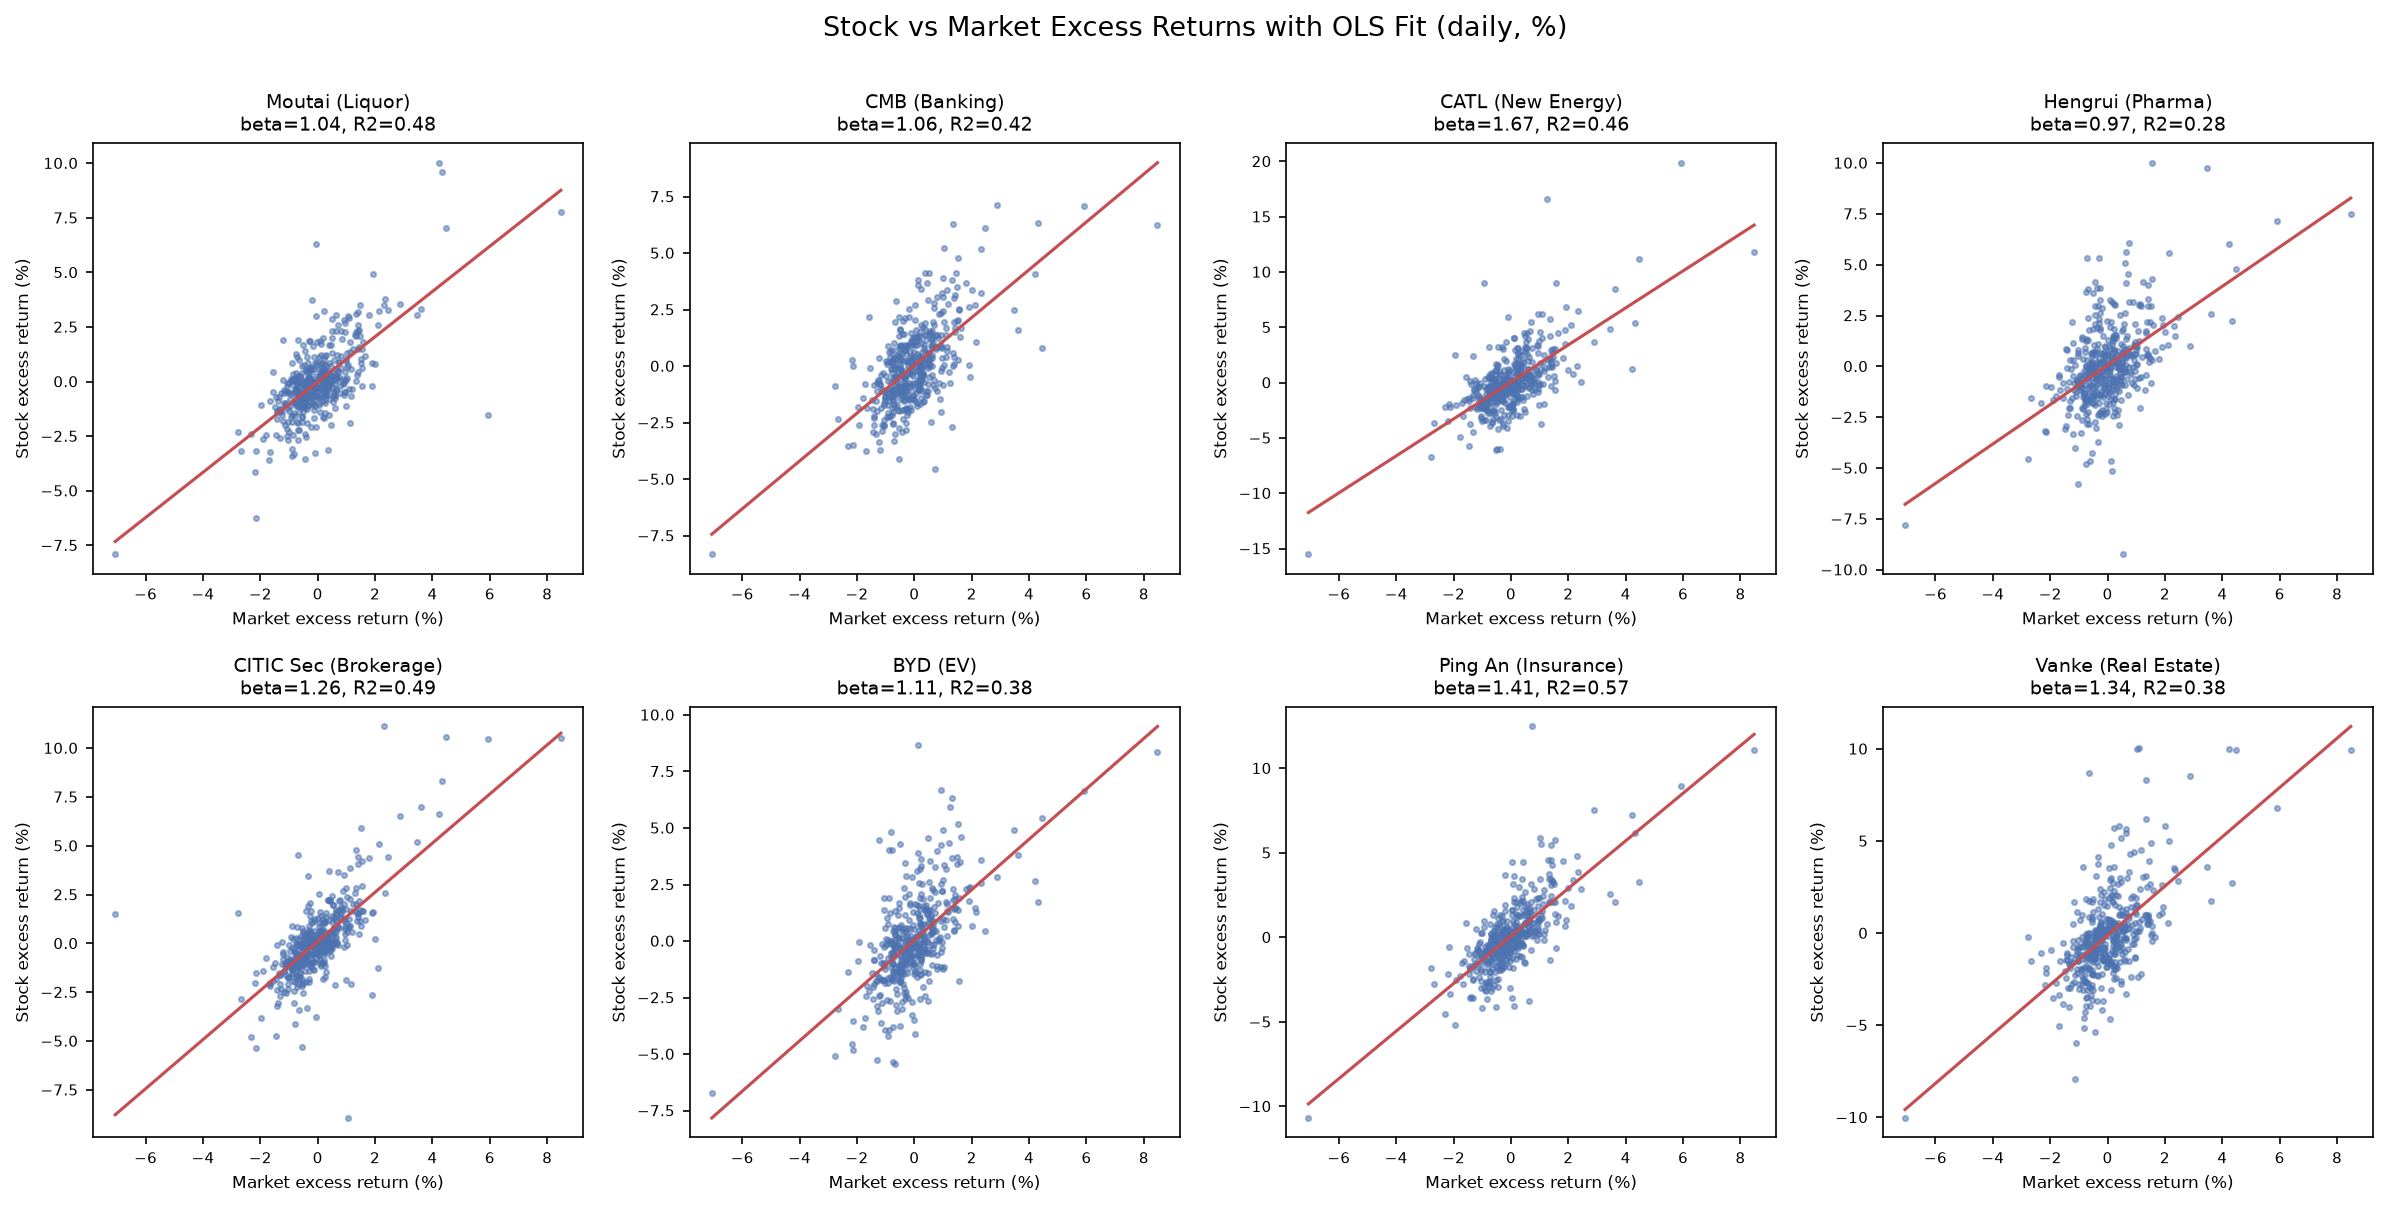
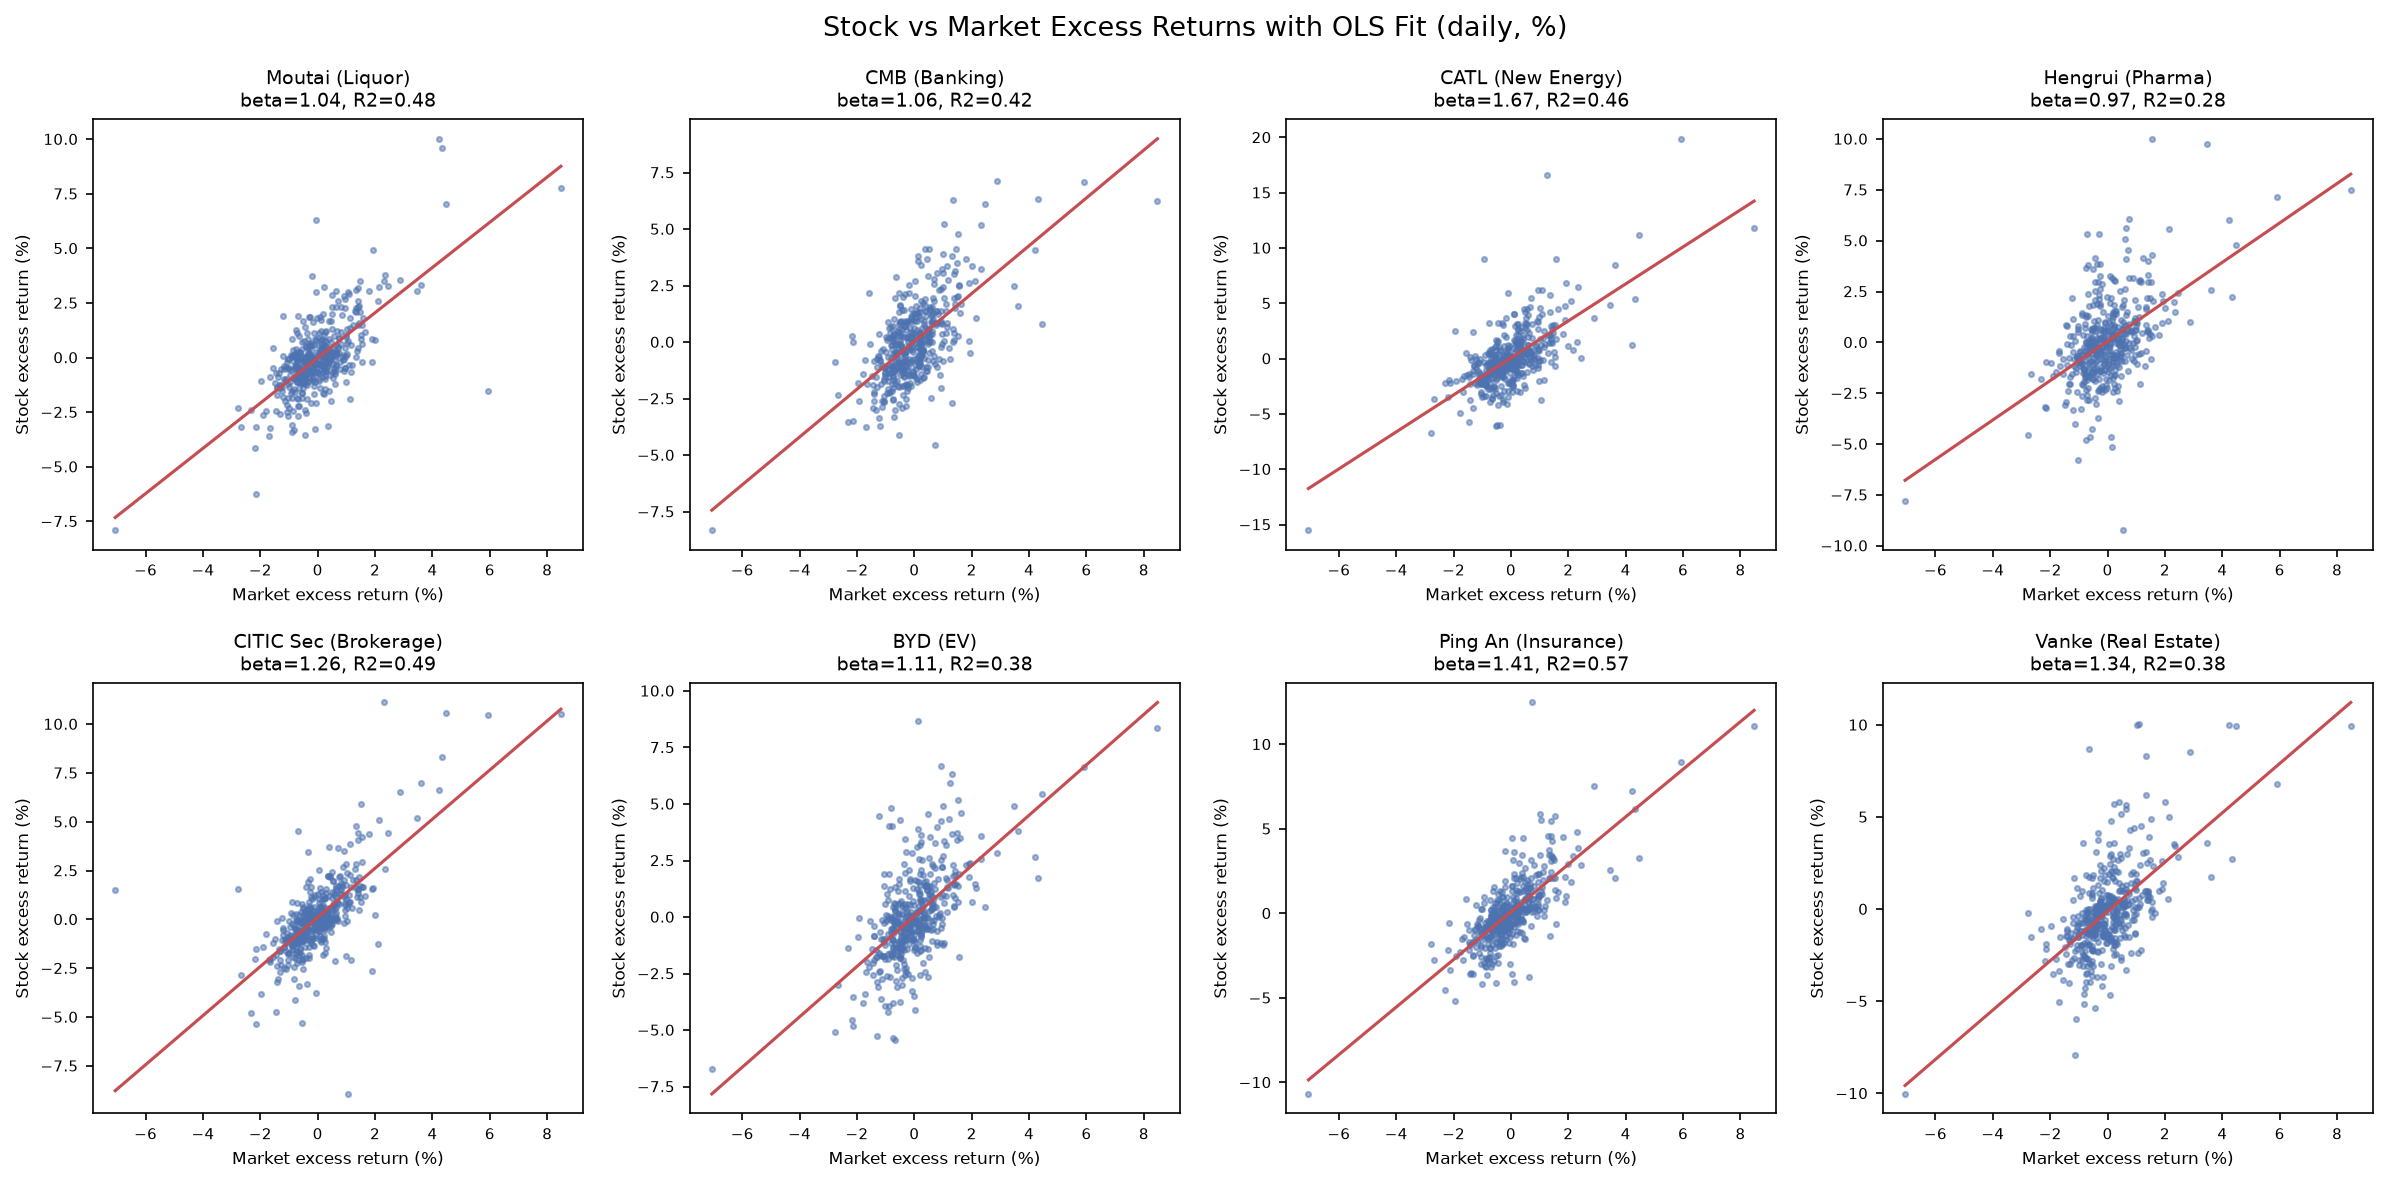
Clean up code comments and simplify requirements

diff --git a/capm_analysis.py b/capm_analysis.py
@@ -1,17 +1,6 @@
 # -*- coding: utf-8 -*-
-"""
-capm_analysis.py — CAPM 回归分析（读本地 CSV，无需联网）
-模型: R_i - rf = alpha + beta * (R_m - rf) + epsilon
-      其中 R_m 为沪深300 日收益率, rf 为常数无风险利率(2% 年化, 日化折算)
-
-用法: python capm_analysis.py
-输入: data/{symbol}.csv 与 data/sh000300_index.csv（由 capm_fetch.py 生成）
-输出:
-  results/capm_results.csv   8 只股票回归系数汇总表
-  results/fig1_beta.png      beta 横向条形图（按大小排序）
-  results/fig2_scatter.png   个股超额收益 vs 市场超额收益 散点+拟合线（2x4）
-  results/fig3_sml.png       证券市场线 SML 检验
-"""
+# CAPM 回归: R_i - rf = alpha + beta * (R_m - rf)
+# 读 data/*.csv（capm_fetch.py 生成），输出 results/ 下的汇总表和 3 张图
 
 import os
 import numpy as np
@@ -21,13 +10,10 @@ matplotlib.use("Agg")
 import matplotlib.pyplot as plt
 import statsmodels.api as sm
 
-# ---------- 基础设置 ----------
 BASE = os.path.dirname(os.path.abspath(__file__))
 DATA = os.path.join(BASE, "data")
 RES = os.path.join(BASE, "results")
-os.makedirs(RES, exist_ok=True)
 
-# 8 只股票: 代码 -> (名称, 行业)
 STOCKS = {
     "sh600519": ("Moutai", "Liquor"),
     "sh600036": ("CMB", "Banking"),
@@ -40,71 +26,55 @@ STOCKS = {
 }
 INDEX_FILE = "sh000300_index"
 
-RF_ANNUAL = 0.02          # 无风险利率 2% 年化（课设简化）
+RF_ANNUAL = 0.02   # 简化处理: 常数无风险利率 2% 年化（对 beta 影响很小）
 TRADING_DAYS = 252
-RF_DAILY = (1 + RF_ANNUAL) ** (1 / TRADING_DAYS) - 1   # 日化无风险利率
+RF_DAILY = (1 + RF_ANNUAL) ** (1 / TRADING_DAYS) - 1
 
 
-def load_close(code: str) -> pd.Series:
-    """读取收盘价序列（按日期排序）"""
+def load_close(code):
     df = pd.read_csv(os.path.join(DATA, f"{code}.csv"), parse_dates=["date"])
     return df.set_index("date")["close"].sort_index()
 
 
 def main():
-    # ---------- 1. 构造日收益率 ----------
+    os.makedirs(RES, exist_ok=True)
     mkt_close = load_close(INDEX_FILE)
-    mkt_ret = mkt_close.pct_change().dropna()          # 市场日收益
-    mkt_excess = mkt_ret - RF_DAILY                    # 市场超额收益
+    mkt_ret = mkt_close.pct_change().dropna()
 
-    # 与市场交易日对齐
-    mkt_excess = mkt_excess.loc[mkt_excess.index.isin(mkt_close.index)]
-
-    rows = []      # 汇总表记录
-    fitted = {}    # 每只股票的 (beta, alpha_daily, r2)
-
+    rows, fitted = [], {}
     for code, (name, industry) in STOCKS.items():
         close = load_close(code)
-        # 与市场对齐（同一交易日），丢弃停牌缺失
+        # 个股与市场按交易日对齐，去掉停牌缺失
         joint = pd.concat([close, mkt_close], axis=1, keys=["stock", "mkt"]).dropna()
         stock_ret = joint["stock"].pct_change().dropna()
         mkt_r = joint["mkt"].pct_change().dropna()
         idx = stock_ret.index.intersection(mkt_r.index)
         stock_ret, mkt_r = stock_ret.loc[idx], mkt_r.loc[idx]
 
-        y = stock_ret - RF_DAILY                        # 个股超额收益
-        x = mkt_r - RF_DAILY                            # 市场超额收益
-
-        # OLS: y = alpha + beta * x
-        X = sm.add_constant(x)
-        model = sm.OLS(y, X).fit()
+        X = sm.add_constant(mkt_r - RF_DAILY)
+        model = sm.OLS(stock_ret - RF_DAILY, X).fit()
 
         beta = model.params["mkt"]
         alpha_daily = model.params["const"]
-        alpha_annual = (1 + alpha_daily) ** TRADING_DAYS - 1   # alpha 年化
-        t_beta = model.tvalues["mkt"]
-        t_alpha = model.tvalues["const"]
-        r2 = model.rsquared
-        n = model.nobs
-
-        ann_vol = stock_ret.std() * np.sqrt(TRADING_DAYS)      # 年化波动率
-        ann_ret = (1 + stock_ret.mean()) ** TRADING_DAYS - 1   # 年化收益
-
         rows.append({
             "code": code, "name": name, "industry": industry,
-            "beta": round(beta, 3), "t_beta": round(t_beta, 2),
-            "alpha_annual": round(alpha_annual, 4),
-            "t_alpha": round(t_alpha, 2),
-            "r_squared": round(r2, 3), "n_obs": int(n),
-            "ann_return": round(ann_ret, 4), "ann_vol": round(ann_vol, 4),
+            "beta": round(beta, 3),
+            "t_beta": round(model.tvalues["mkt"], 2),
+            "alpha_annual": round((1 + alpha_daily) ** TRADING_DAYS - 1, 4),
+            "t_alpha": round(model.tvalues["const"], 2),
+            "r_squared": round(model.rsquared, 3),
+            "n_obs": int(model.nobs),
+            "ann_return": round((1 + stock_ret.mean()) ** TRADING_DAYS - 1, 4),
+            "ann_vol": round(stock_ret.std() * np.sqrt(TRADING_DAYS), 4),
         })
-        fitted[code] = (name, industry, beta, alpha_daily, r2, x, y)
+        fitted[code] = (name, industry, beta, alpha_daily,
+                        model.rsquared, mkt_r - RF_DAILY, stock_ret - RF_DAILY)
 
     result = pd.DataFrame(rows).sort_values("beta", ascending=False)
     result.to_csv(os.path.join(RES, "capm_results.csv"), index=False)
     print(result.to_string(index=False))
 
-    # ---------- 2. 图1: beta 横向条形图 ----------
+    # 图1: beta 条形图（按大小排序）
     fig, ax = plt.subplots(figsize=(8, 5))
     plot_df = result.sort_values("beta")
     labels = [f"{r['name']} ({r['industry']})" for _, r in plot_df.iterrows()]
@@ -120,10 +90,9 @@ def main():
     fig.savefig(os.path.join(RES, "fig1_beta.png"), dpi=150)
     plt.close(fig)
 
-    # ---------- 3. 图2: 个股 vs 市场 散点 + 拟合线 (2x4) ----------
+    # 图2: 个股 vs 市场超额收益散点 + 拟合线
     fig, axes = plt.subplots(2, 4, figsize=(16, 8))
-    codes = list(STOCKS.keys())
-    for ax_i, code in enumerate(codes):
+    for ax_i, code in enumerate(STOCKS):
         name, industry, beta, alpha_d, r2, x, y = fitted[code]
         ax = axes.flat[ax_i]
         ax.scatter(x * 100, y * 100, s=6, alpha=0.5, color="#4C72B0")
@@ -133,32 +102,25 @@ def main():
         ax.set_xlabel("Market excess return (%)", fontsize=8)
         ax.set_ylabel("Stock excess return (%)", fontsize=8)
         ax.tick_params(labelsize=7)
-    fig.suptitle("Stock vs Market Excess Returns with OLS Fit (daily, %)",
-                 fontsize=13, y=1.0)
+    fig.suptitle("Stock vs Market Excess Returns with OLS Fit (daily, %)", fontsize=13)
     fig.tight_layout()
     fig.savefig(os.path.join(RES, "fig2_scatter.png"), dpi=150, bbox_inches="tight")
     plt.close(fig)
 
-    # ---------- 4. 图3: 证券市场线 SML ----------
-    # 理论 SML: E(R_i) = R_f + beta * (E(R_m) - R_f)
-    mkt_premium = (1 + mkt_ret.mean()) ** TRADING_DAYS - 1 - RF_ANNUAL   # 市场风险溢价(年化)
-    betas = result["beta"].values
-    ann_rets = result["ann_return"].values
+    # 图3: 证券市场线，检验 beta 是否真的带来更高回报
+    mkt_premium = (1 + mkt_ret.mean()) ** TRADING_DAYS - 1 - RF_ANNUAL
 
     fig, ax = plt.subplots(figsize=(8, 5.5))
+    betas, ann_rets = result["beta"].values, result["ann_return"].values
     ax.scatter(betas, ann_rets * 100, s=60, color="#4C72B0", zorder=3)
     for _, r in result.iterrows():
-        ax.annotate(f"{r['name']}", (r["beta"], r["ann_return"] * 100),
+        ax.annotate(r["name"], (r["beta"], r["ann_return"] * 100),
                     textcoords="offset points", xytext=(6, 4), fontsize=8)
-
     x_line = np.linspace(betas.min() - 0.1, betas.max() + 0.1, 100)
-    sml_y = (RF_ANNUAL + x_line * mkt_premium) * 100
-    ax.plot(x_line, sml_y, "r--", lw=1.5,
+    ax.plot(x_line, (RF_ANNUAL + x_line * mkt_premium) * 100, "r--", lw=1.5,
             label=f"SML: Rf + beta*{mkt_premium*100:.1f}%")
-
-    # 样本平均 beta=1 的市场组合点
-    ax.scatter([1.0], [(RF_ANNUAL + mkt_premium) * 100], marker="*",
-               s=150, color="#C44E52", zorder=4, label="Market (beta=1)")
+    ax.scatter([1.0], [(RF_ANNUAL + mkt_premium) * 100], marker="*", s=150,
+               color="#C44E52", zorder=4, label="Market (beta=1)")
     ax.axhline(RF_ANNUAL * 100, color="gray", ls=":", lw=1)
     ax.set_xlabel("Beta")
     ax.set_ylabel("Average annualized return (%)")
@@ -169,7 +131,6 @@ def main():
     plt.close(fig)
 
     print(f"\n市场风险溢价(年化): {mkt_premium*100:.2f}%")
-    print(f"图表已保存至: {RES}/")
 
 
 if __name__ == "__main__":

diff --git a/capm_fetch.py b/capm_fetch.py
@@ -1,11 +1,6 @@
 # -*- coding: utf-8 -*-
-"""
-capm_fetch.py — 下载 A 股个股与沪深300 日线数据，落盘为 CSV
-样本期: 2023-01-01 ~ 2024-10-31（CAPM 课设项目，Oct 2024 – Dec 2024）
-数据源: 腾讯财经公开行情接口（web.ifzq.gtimg.cn，个股前复权 qfq；指数不复权 day）
-用法:   python capm_fetch.py
-输出:   data/{symbol}.csv，列: date,open,close,high,low,volume
-"""
+# 下载 8 只 A 股 + 沪深300 日线数据，存为 CSV
+# 数据源: 腾讯财经公开行情接口 https://web.ifzq.gtimg.cn
 
 import os
 import time
@@ -13,85 +8,54 @@ import json
 import urllib.request
 import pandas as pd
 
-# 8 只跨行业 A 股（腾讯代码格式: sh/sz 前缀）+ 市场指数
 STOCKS = {
-    "sh600519": "贵州茅台(白酒)",
-    "sh600036": "招商银行(银行)",
-    "sz300750": "宁德时代(新能源)",
-    "sh600276": "恒瑞医药(医药)",
-    "sh600030": "中信证券(券商)",
-    "sz002594": "比亚迪(新能源车)",
-    "sh601318": "中国平安(保险)",
-    "sz000002": "万科A(地产)",
+    "sh600519": "贵州茅台",
+    "sh600036": "招商银行",
+    "sz300750": "宁德时代",
+    "sh600276": "恒瑞医药",
+    "sh600030": "中信证券",
+    "sz002594": "比亚迪",
+    "sh601318": "中国平安",
+    "sz000002": "万科A",
 }
-INDEX = "sh000300"   # 沪深300
-INDEX_NAME = "沪深300指数"
-
+INDEX = "sh000300"
 START = "2023-01-01"
 END = "2024-10-31"
 URL = "https://web.ifzq.gtimg.cn/appstock/app/fqkline/get"
-
 OUT_DIR = os.path.join(os.path.dirname(os.path.abspath(__file__)), "data")
-os.makedirs(OUT_DIR, exist_ok=True)
 
 
-def fetch_kline(symbol: str, name: str, is_index: bool = False) -> pd.DataFrame:
-    """拉取日线。个股用 qfq（前复权），指数用 day（点位本身无需复权）。"""
-    # 指数请求需以逗号结尾标记非复权；个股追加 ,qfq 表示前复权
+def fetch_kline(symbol, name, is_index=False):
+    # 个股用 qfq 前复权；指数是点位不用复权，URL 结尾要带逗号
     fq = "," if is_index else ",qfq"
-    # 请求 800 条，覆盖 2023-01 ~ 2024-10 约 440 个交易日
     url = f"{URL}?param={symbol},day,{START},{END},800{fq}"
     req = urllib.request.Request(url, headers={"User-Agent": "Mozilla/5.0"})
     with urllib.request.urlopen(req, timeout=15) as resp:
         data = json.loads(resp.read().decode("utf-8"))
-
     if data.get("code") != 0:
-        raise RuntimeError(f"{name}: 接口返回 code={data.get('code')}")
+        raise RuntimeError(f"{name}: code={data.get('code')}")
 
     node = data["data"][symbol]
     rows = node.get("qfqday") or node.get("day")
     if not rows:
         raise RuntimeError(f"{name}: 无数据")
 
-    # 除权除息日会附带第 7 列分红说明 dict（如 10派259.11元），只取前 6 列
+    # 除权日会多出第 7 列（分红信息），只取前 6 列
     df = pd.DataFrame([r[:6] for r in rows],
                       columns=["date", "open", "close", "high", "low", "volume"])
     df["date"] = pd.to_datetime(df["date"])
-    df = df[["date", "open", "close", "high", "low", "volume"]]
     return df
 
 
 def main():
-    ok, fail = [], []
-
-    # 指数
-    try:
-        idx = fetch_kline(INDEX, INDEX_NAME, is_index=True)
-        p = os.path.join(OUT_DIR, f"{INDEX}_index.csv")
-        idx.to_csv(p, index=False)
-        print(f"[OK] {INDEX_NAME}: {len(idx)} 行 -> {p}")
-        ok.append(INDEX)
-    except Exception as e:
-        print(f"[FAIL] {INDEX_NAME}: {e}")
-        fail.append(INDEX)
-    time.sleep(0.5)
-
-    # 个股
+    os.makedirs(OUT_DIR, exist_ok=True)
+    fetch_kline(INDEX, "沪深300", is_index=True).to_csv(
+        os.path.join(OUT_DIR, f"{INDEX}_index.csv"), index=False)
     for code, name in STOCKS.items():
-        try:
-            df = fetch_kline(code, name, is_index=False)
-            p = os.path.join(OUT_DIR, f"{code}.csv")
-            df.to_csv(p, index=False)
-            print(f"[OK] {name}: {len(df)} 行 -> {p}")
-            ok.append(code)
-        except Exception as e:
-            print(f"[FAIL] {name}: {e}")
-            fail.append(code)
-        time.sleep(0.5)
-
-    print(f"\n完成: 成功 {len(ok)}/{len(ok) + len(fail)}")
-    if fail:
-        print(f"失败: {fail}")
+        df = fetch_kline(code, name)
+        df.to_csv(os.path.join(OUT_DIR, f"{code}.csv"), index=False)
+        print(f"{name}: {len(df)} rows")
+        time.sleep(0.5)  # 控制请求频率
 
 
 if __name__ == "__main__":

diff --git a/README.md b/README.md
@@ -92,7 +92,7 @@ python capm_analysis.py
 
 ## Tech Stack
 
-Python 3.13 · pandas / numpy · statsmodels (OLS) · matplotlib · Tencent Finance public API
+Python 3 · pandas / numpy · statsmodels (OLS) · matplotlib · Tencent Finance public API
 
 ## Limitations
 
